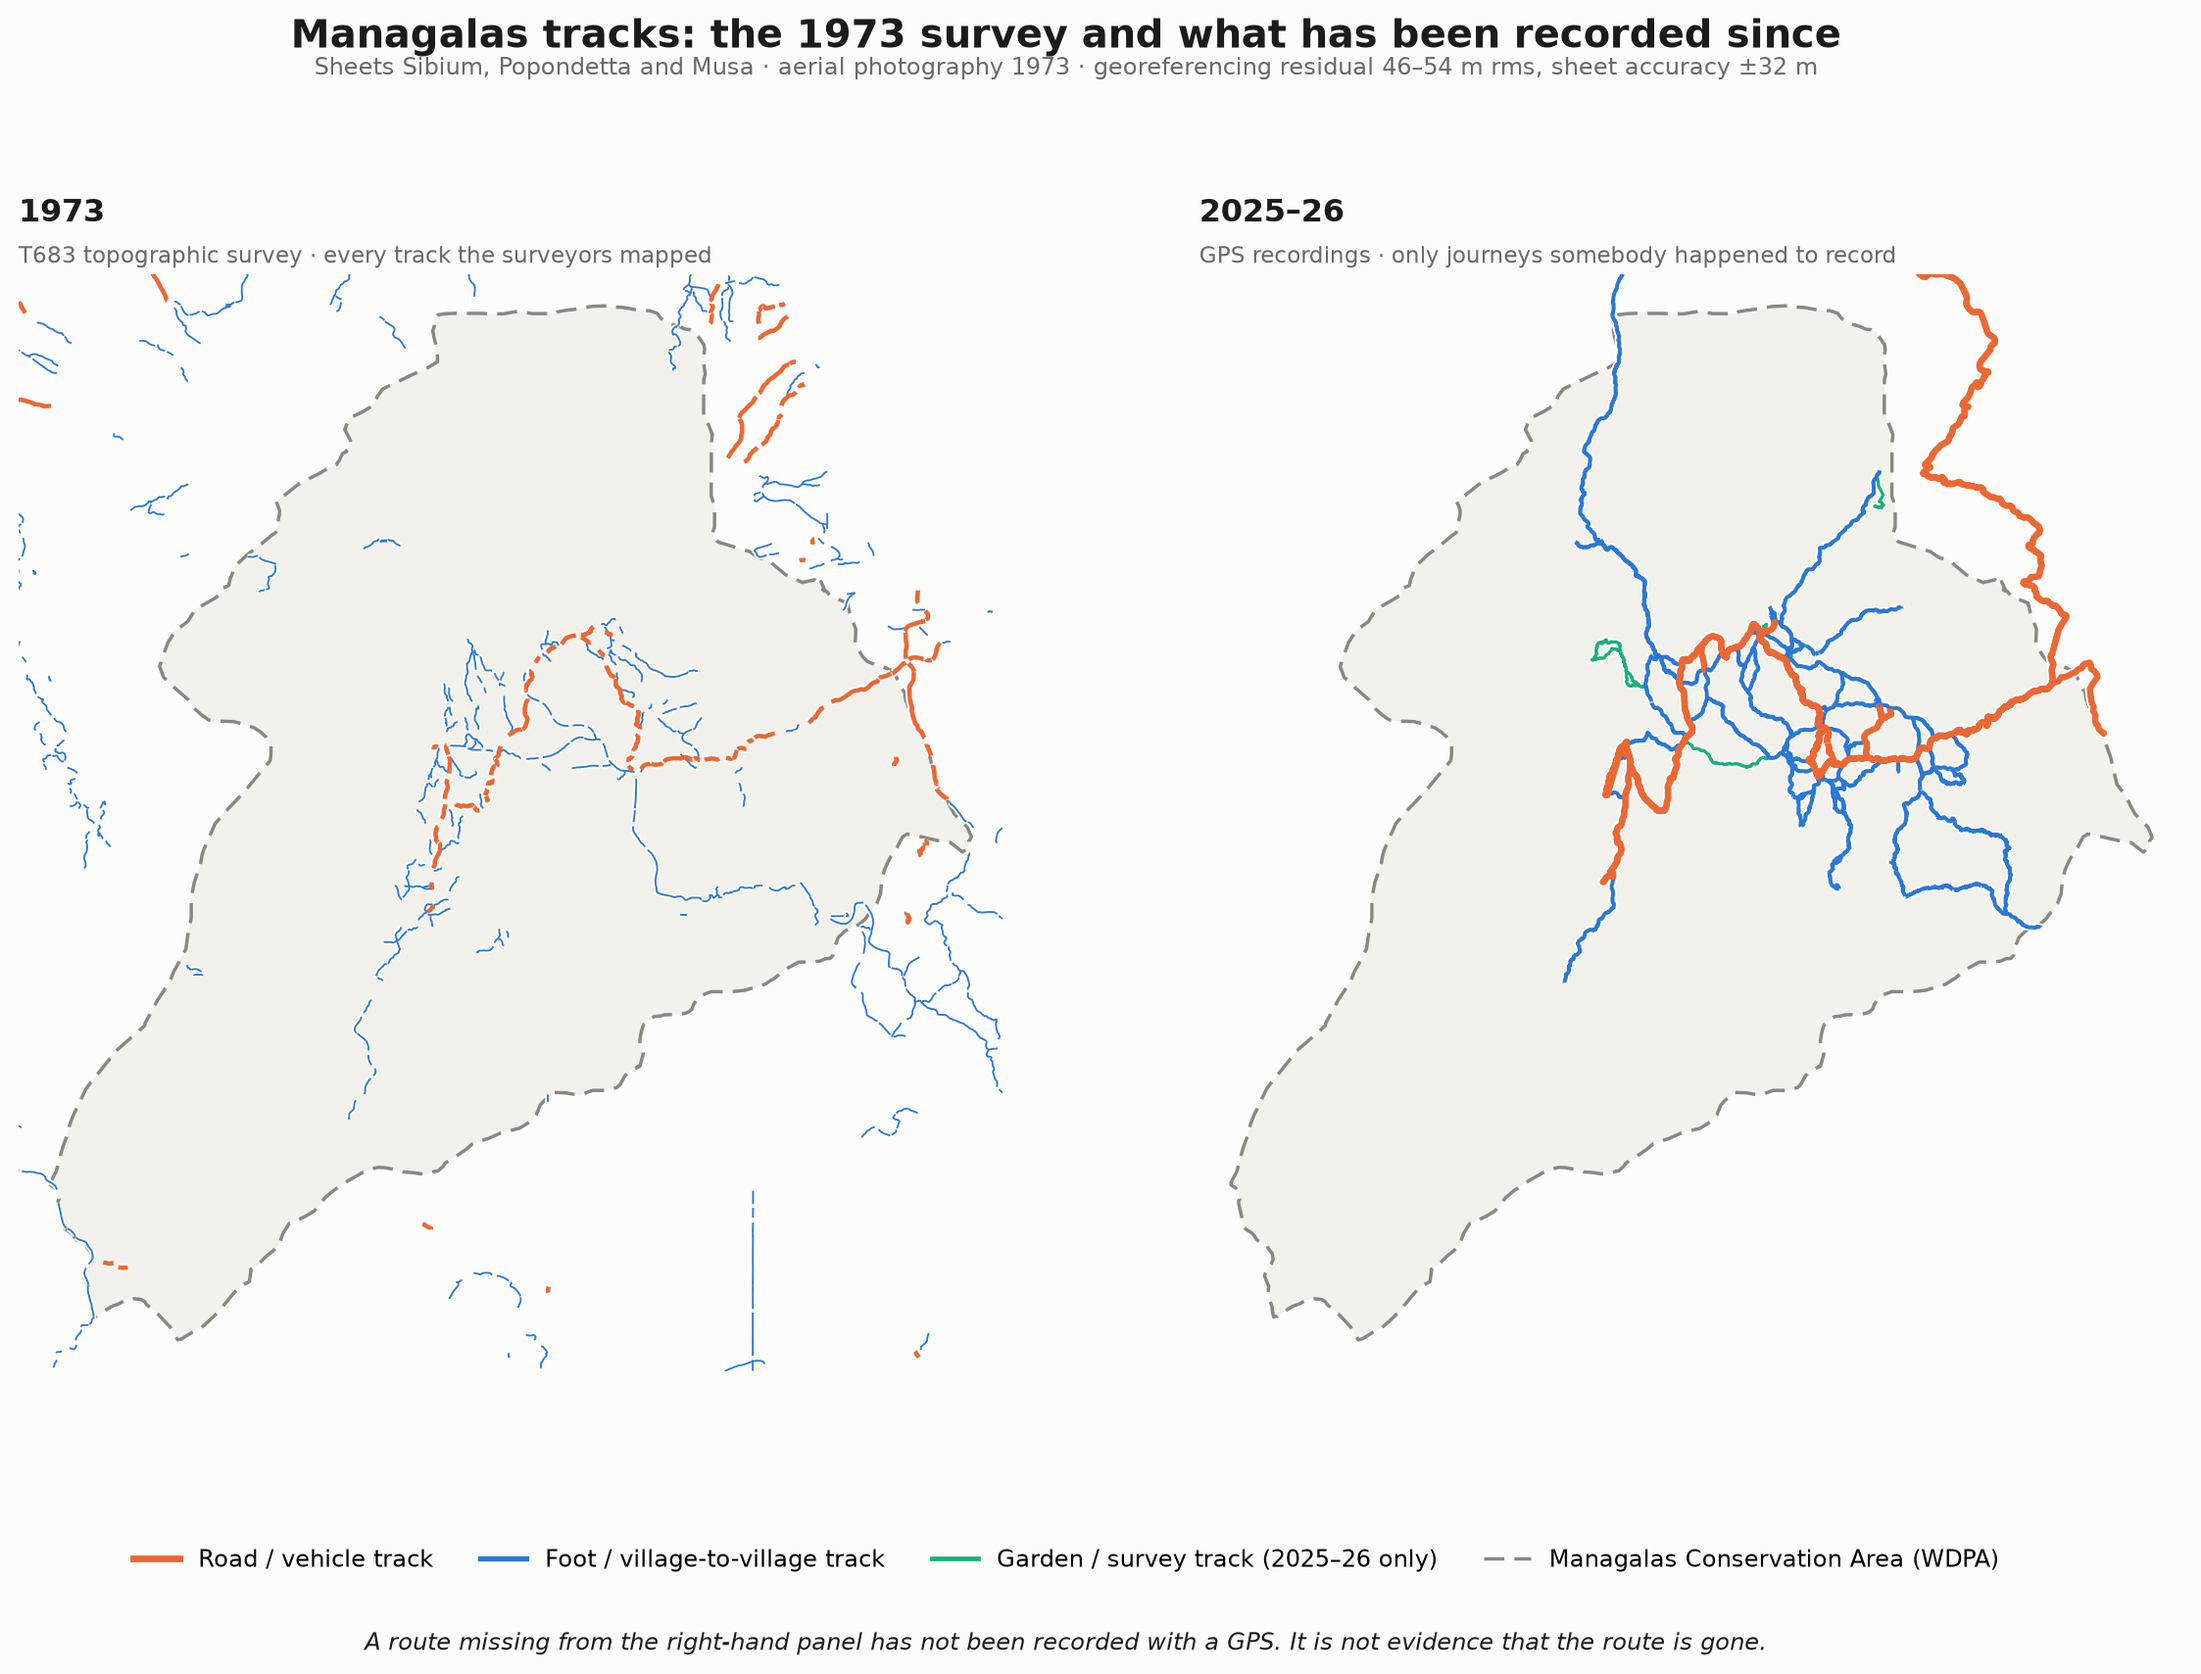
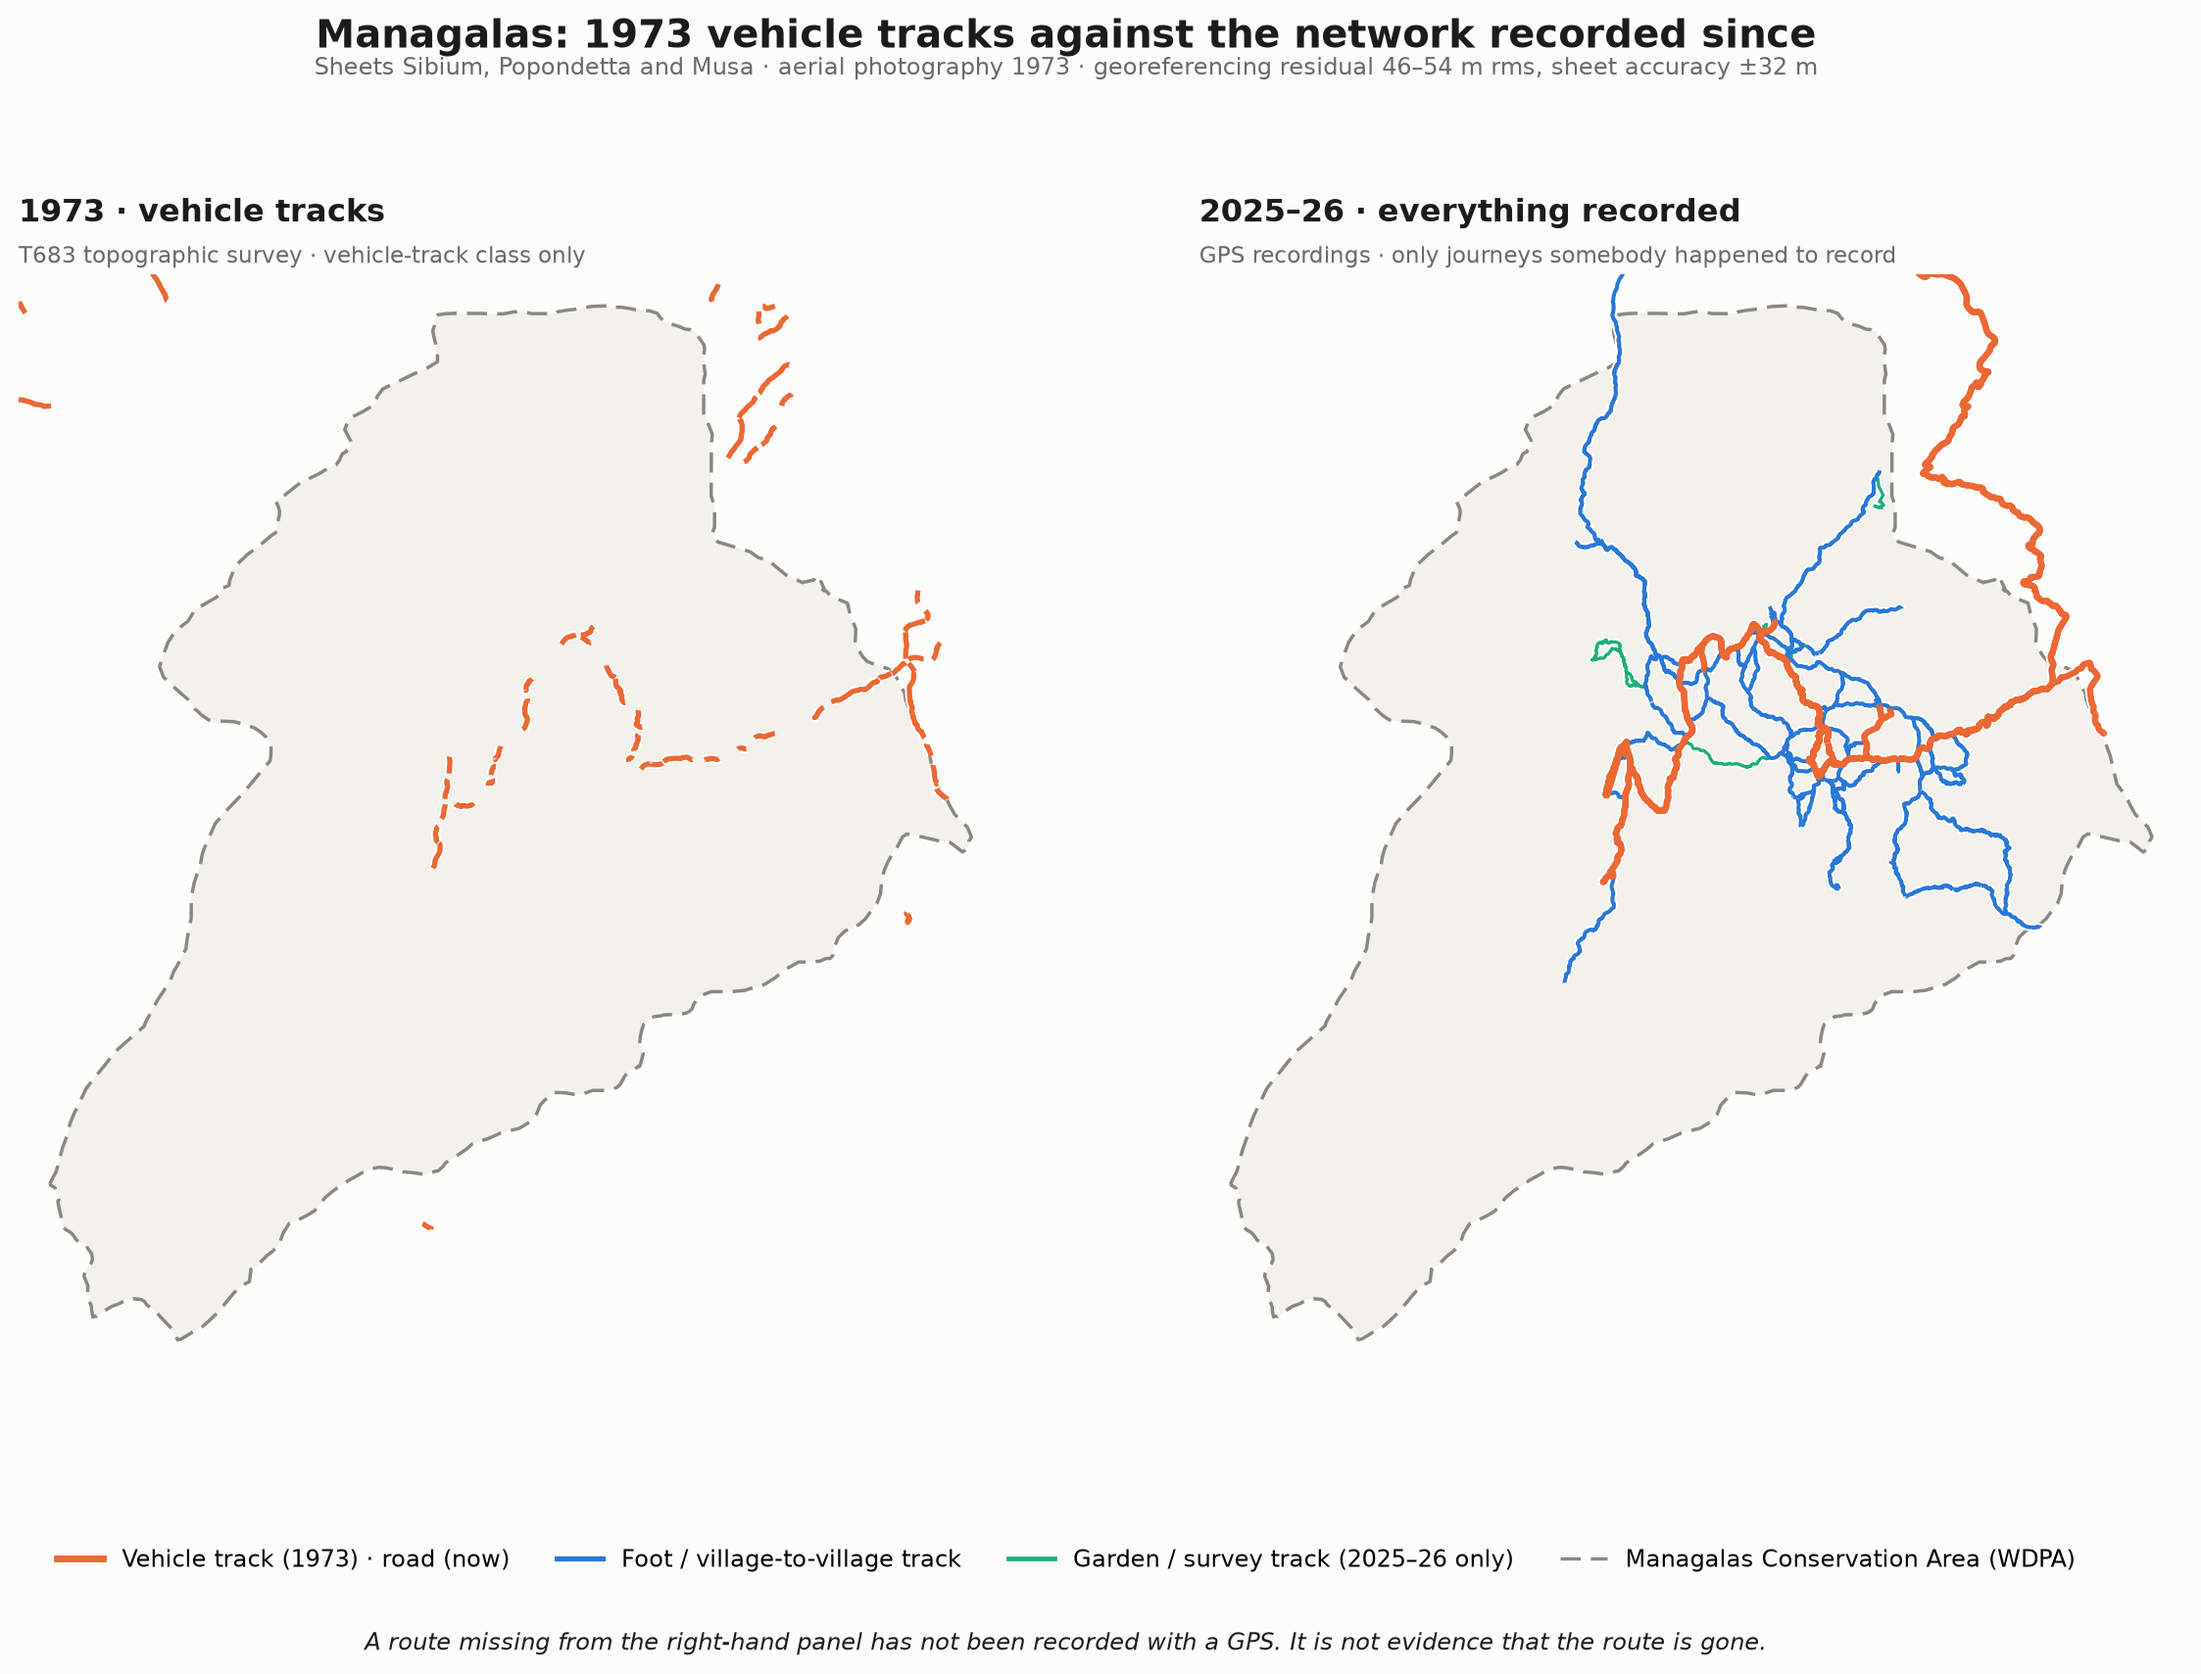
Comparison map: 1973 vehicle tracks only, against the full modern network
Claude-Session: https://claude.ai/code/session_01MccBSyiqvhYzrwXhxPb7TF

diff --git a/scripts/make_change_map.py b/scripts/make_change_map.py
@@ -48,7 +48,10 @@ MOTOR = "#eb6834"
 FOOT = "#2a78d6"
 GARDEN = "#1baf7a"
 
-MOTOR_TYPES_OLD = {"Road", "Vehicle track"}
+# The 1973 panel shows the vehicle-track class only, as asked. The sheet's
+# separate "Road" class is held out rather than folded in - it is 32 km and can
+# be switched back on here if the motorised network as a whole is wanted.
+MOTOR_TYPES_OLD = {"Vehicle track"}
 MOTOR_TYPES_NEW = {"Road"}
 
 
@@ -84,7 +87,7 @@ def main():
     ylim = (miny - pad, maxy + pad)
 
     old_motor = old[old["type"].isin(MOTOR_TYPES_OLD)]
-    old_foot = old[old["type"] == "Foot track"]
+    old_foot = old.iloc[0:0]          # foot tracks held out of the 1973 panel
     new_motor = new[new["type"].isin(MOTOR_TYPES_NEW)]
     new_foot = new[new["type"] == "Village-to-village track"]
     new_garden = new[new["type"] == "Garden / survey track"]
@@ -94,12 +97,12 @@ def main():
         ax.set_facecolor(SURFACE)
 
     draw(axes[0], boundary,
-         [(old_foot, FOOT, 0.7), (old_motor, MOTOR, 1.7)],
-         "1973",
-         "T683 topographic survey · every track the surveyors mapped")
+         [(old_motor, MOTOR, 2.0)],
+         "1973 · vehicle tracks",
+         "T683 topographic survey · vehicle-track class only")
     draw(axes[1], boundary,
          [(new_garden, GARDEN, 1.2), (new_foot, FOOT, 1.5), (new_motor, MOTOR, 2.4)],
-         "2025–26",
+         "2025–26 · everything recorded",
          "GPS recordings · only journeys somebody happened to record")
 
     for ax in axes:
@@ -108,7 +111,7 @@ def main():
         ax.set_aspect("equal")
 
     handles = [
-        Line2D([], [], color=MOTOR, lw=2.6, label="Road / vehicle track"),
+        Line2D([], [], color=MOTOR, lw=2.6, label="Vehicle track (1973) · road (now)"),
         Line2D([], [], color=FOOT, lw=2.0, label="Foot / village-to-village track"),
         Line2D([], [], color=GARDEN, lw=1.8, label="Garden / survey track (2025–26 only)"),
         Line2D([], [], color=BOUNDARY_EDGE, lw=1.3, ls=(0, (6, 3)),
@@ -117,7 +120,7 @@ def main():
     fig.legend(handles=handles, loc="lower center", ncol=4, frameon=False,
                fontsize=9, bbox_to_anchor=(0.5, 0.045))
 
-    fig.suptitle("Managalas tracks: the 1973 survey and what has been recorded since",
+    fig.suptitle("Managalas: 1973 vehicle tracks against the network recorded since",
                  fontsize=15, color=INK, x=0.5, y=0.965, weight="bold")
     fig.text(0.5, 0.932,
              "Sheets Sibium, Popondetta and Musa · aerial photography 1973 · "
@@ -133,8 +136,10 @@ def main():
     fig.savefig(out, dpi=190, facecolor=SURFACE, bbox_inches="tight")
     print(f"wrote {out}")
 
-    print(f"\n1973  motorised {old_motor['length_km'].sum():7.0f} km  "
-          f"foot {old_foot['length_km'].sum():7.0f} km")
+    held = old[old["type"] == "Road"]["length_km"].sum()
+    print(f"\n1973  vehicle track {old_motor['length_km'].sum():6.0f} km   "
+          f"(held out: Road {held:.0f} km, "
+          f"Foot track {old[old['type']=='Foot track']['length_km'].sum():.0f} km)")
     print(f"now   motorised {new_motor['length_km'].sum():7.0f} km  "
           f"foot {new_foot['length_km'].sum():7.0f} km  "
           f"garden {new_garden['length_km'].sum():6.0f} km")
